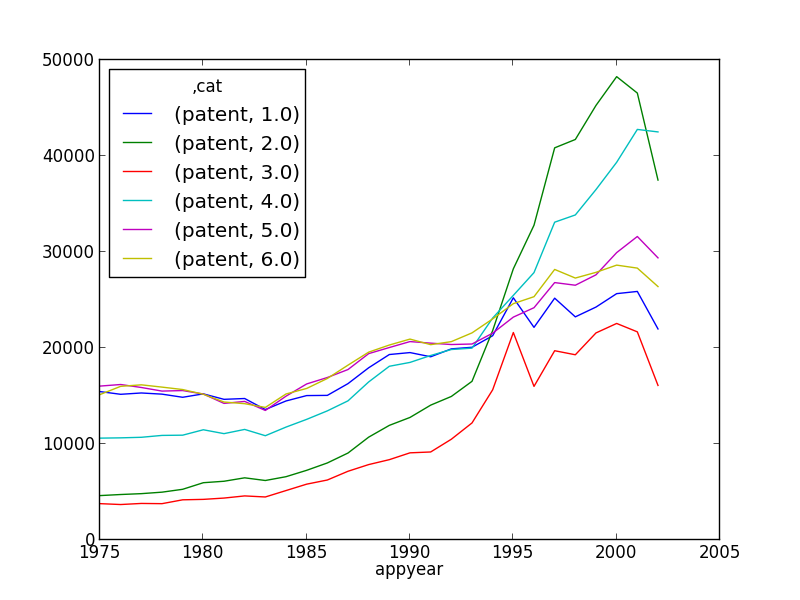
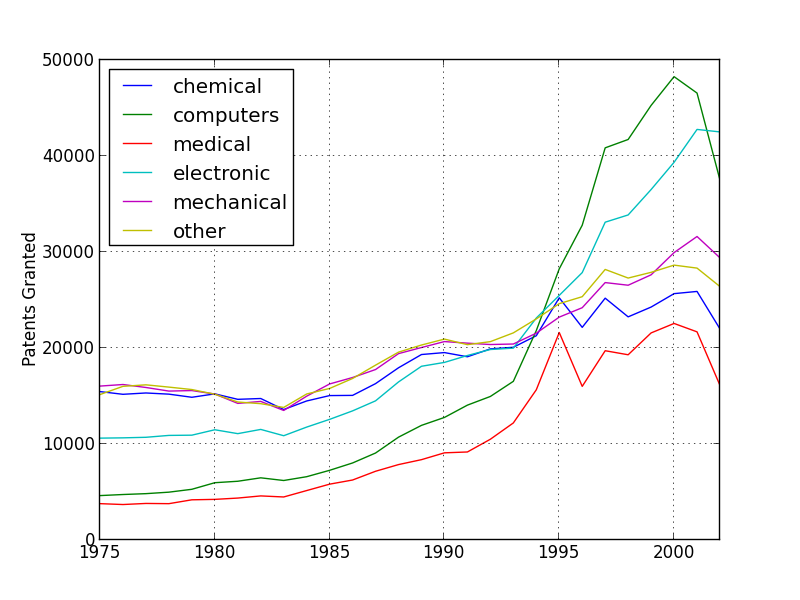
Combined tech and all graph. Cleaned up the category graph.

diff --git a/scripts/summary_stats.py b/scripts/summary_stats.py
@@ -137,6 +137,20 @@ ax1.set_xlim(1975, 2002)
 # fig.tight_layout()
 plt.savefig('../resources/application_year.png', dpi=300)
 
+# Both twined
+cts = df.groupby(df['appyear'])['patent'].count()
+ctst = t.groupby(t['appyear'])['patent'].count()
+j = pd.concat([cts, ctst], axis=1)
+j.columns = ['All', 'Tech']
+
+fig = plt.figure()
+ax = fig.add_subplot(111)
+
+j.ix[1975:2002].plot(secondary_y=['Tech'], grid=True, ax=ax)
+ax.set_xlabel('')
+ax.set_ylabel('Patents Granted')
+
+plt.savefig('tech_and_all.png', dpi=300)
 # By grant year, adjusted and unadjusted
 fig = plt.figure()
 ax1 = fig.add_subplot(111)
@@ -230,8 +244,14 @@ cats = ['icl', 'icl_class', 'iclnum', 'cat', 'cat_ocl', 'cclass', 'subcat', 'sub
 jcats = df[cats]
 gr = df[['patent']].groupby((jcats['cat'], df['appyear']))
 by_cat_ts = gr.count().unstack(level='cat').ix[1975:2002]
+d = {('patent', 1.0): 'chemical', ('patent', 2.0): 'computers', ('patent', 3.0): 'medical',
+     ('patent', 4.0): 'electronic', ('patent', 5.0): 'mechanical', ('patent', 6.0): 'other'}
+by_cat_ts = by_cat_ts.rename(columns=d)
 plt.figure()
-ax = by_cat_ts.plot()
+ax = by_cat_ts.plot(grid=True)
+ax.set_xlabel('')
+ax.set_xlim(1975, 2002)
+ax.set_ylabel('Patents Granted')
 plt.savefig('../resources/by_cat_year.png')
 
 

diff --git a/presentation/patents_and_innovation_slides.tex b/presentation/patents_and_innovation_slides.tex
@@ -132,11 +132,25 @@
 \!\!\!\!\!\!\!\!\!\!\!\!\!\!
 \begin{figure}[hb]
   \begin{center}
-      \includegraphics[scale=.5]{grant_year.png}
-      \label{fig:grant_year}
+      \includegraphics[scale=.5]{tech_and_all.png}
+      \label{fig:app_year}
   \end{center}
   \!\!\!\!\!
   Hall, et al (2001). ``The NBER Patent Citation Data File''.
+\end{figure}
+\end{frame}
+
+\begin{frame}[t]\frametitle{By Industry} 
+\fontsize{6pt}{7.2}\selectfont
+\!\!\!\!\!\!\!\!\!\!\!\!\!
+\begin{figure}[T]
+  \begin{center}
+    \includegraphics[scale=.5]{by_cat_year.png}
+    \label{fig:by_country_normalized}
+  \end{center}
+  \!\!\!\!\!
+  Hall, et al (2001). ``The NBER Patent Citation Data File''.
+
 \end{figure}
 \end{frame}
 
